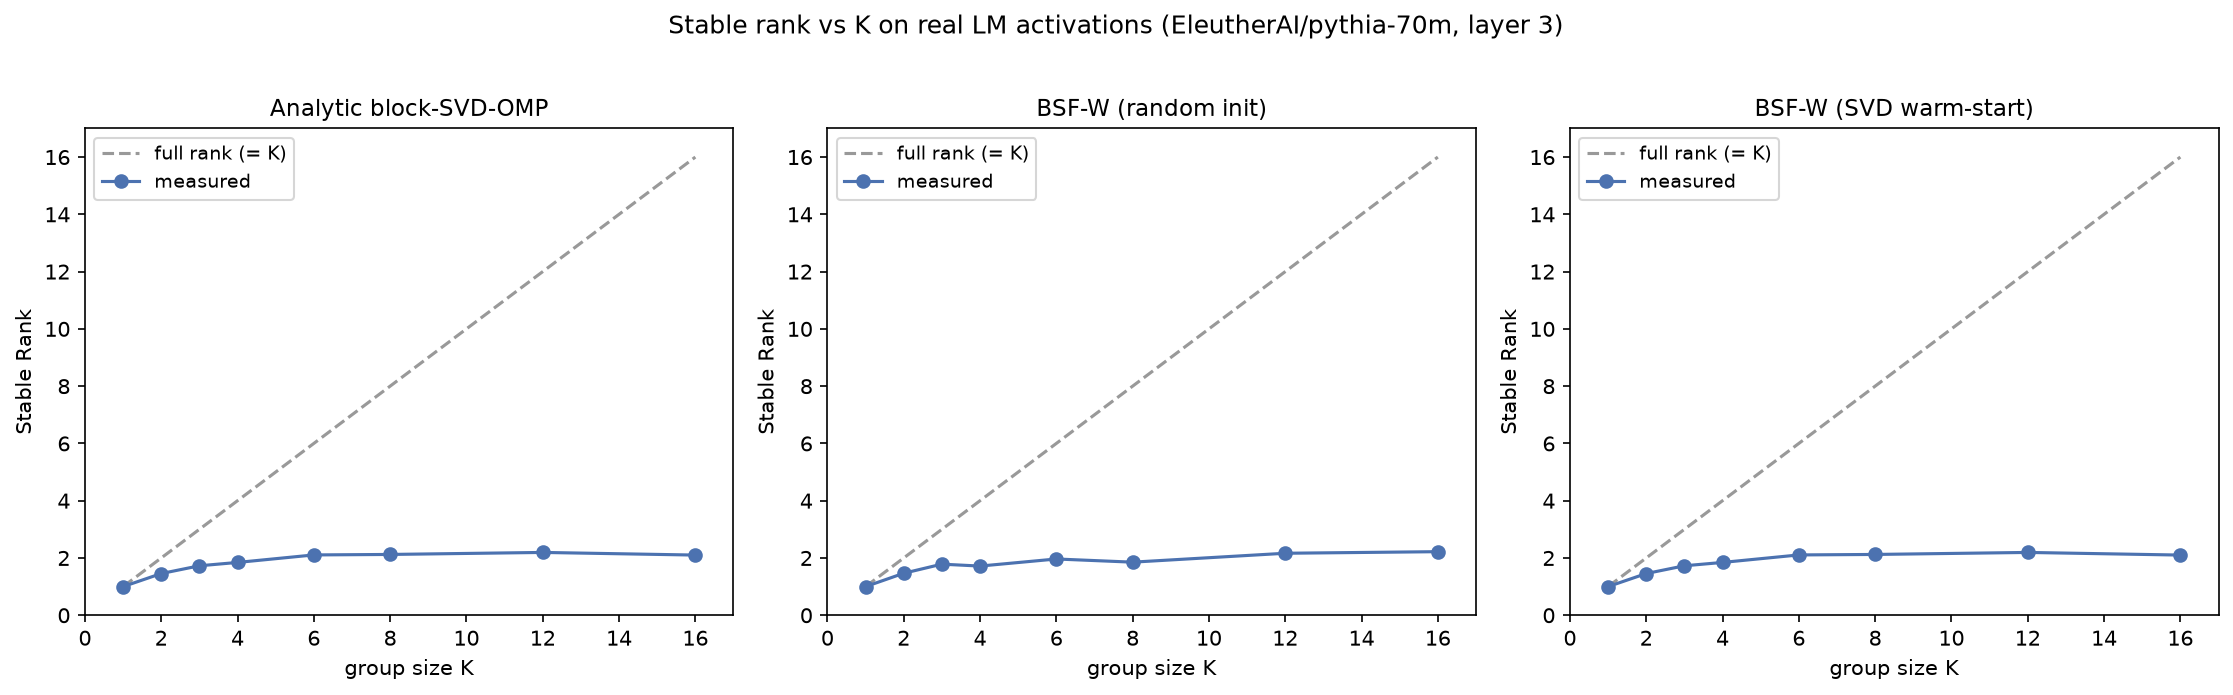
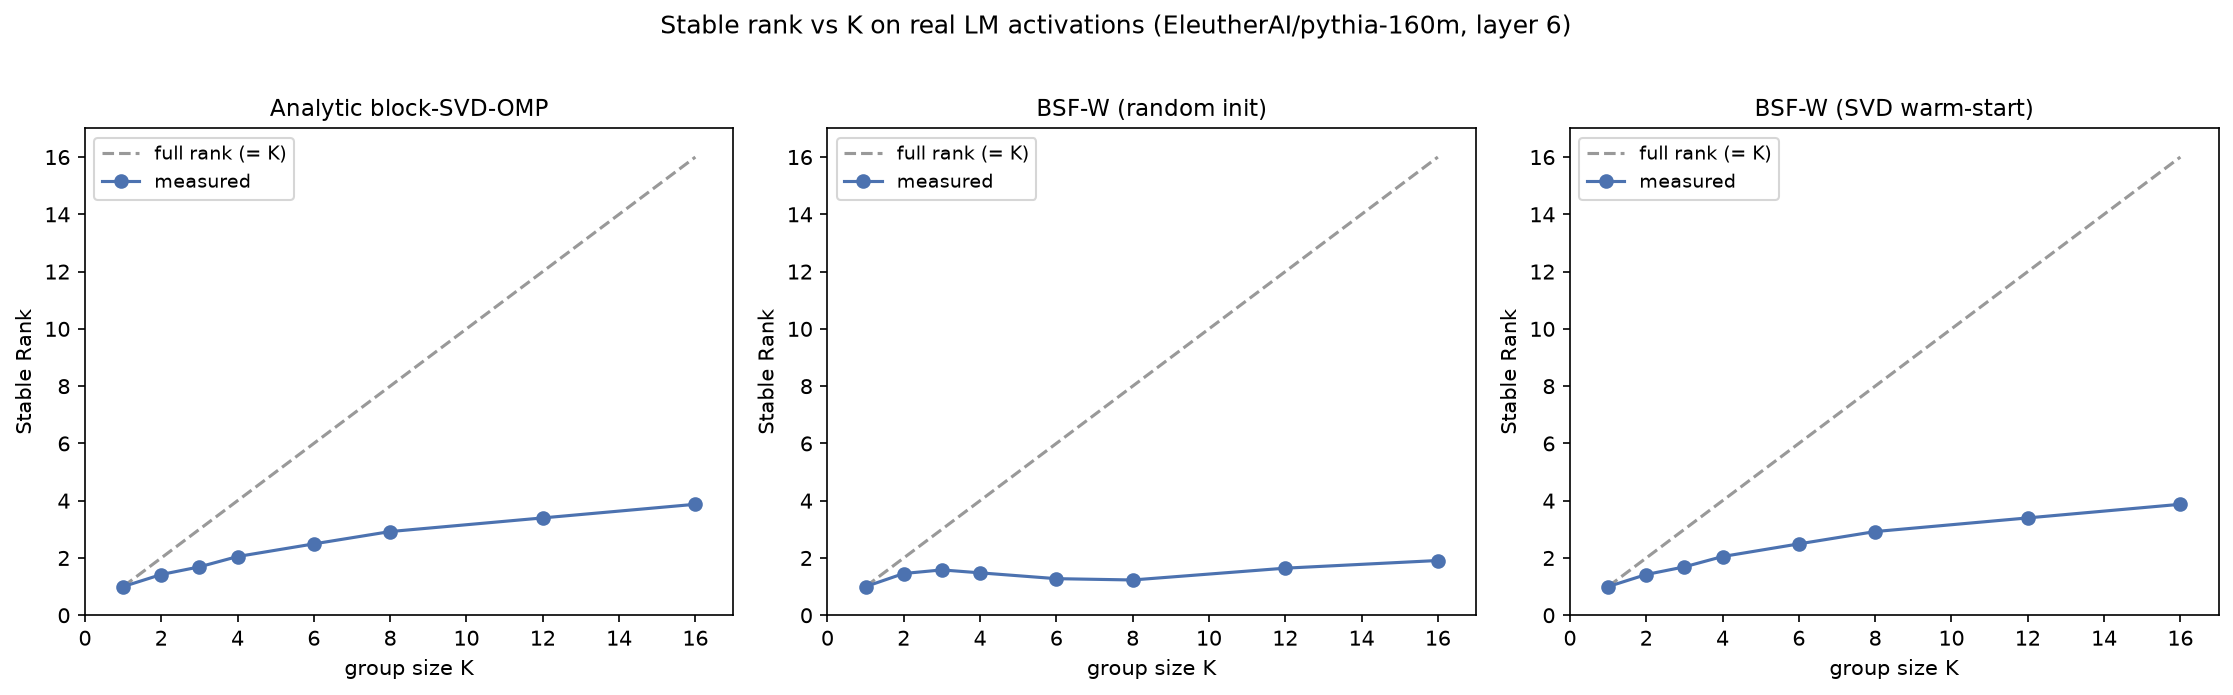
AAAI paper polish: wall-clock, larger-LM plateau, real bib, checklist
Four additions for AAAI 2027 Alignment submission:

1. Wall-clock timing (wall_clock_timing.py):
   - Real per-matrix numbers on CPU across 24 Goodfire-67M-shaped modules
   - SVD-OMP: 102 ms mean; VPD: 1585 ms (15.5x); BSF cold: 1493 ms;
     BSF warm: 1582 ms; scaffold-trainable: 392 ms (3.8x)
   - Added Table 5 to Discussion, replaces qualitative claim
   - results/wall_clock.json

2. Larger-LM stable-rank sweep (Pythia-160M):
   - Plateau climbs to 3.87 at K=16 (vs 2.10 on Pythia-70M),
     essentially matching BSF's ~4 on vision at 160M
   - Table 4 now shows Pythia-70M, Pythia-160M, and BSF-reported vision
     side by side; concept dim scales with model size
   - results/stable_rank_real_lm.json updated

3. Real bib entries:
   - VPD: Bushnaq et al. 2026, Goodfire research (with full author list)
   - BSF: Fel et al. 2026, "Structuring Sparsity: Block-Sparse Featurizers
     Capture Visual Concept Manifolds", arXiv:2606.25234
   - J-lens: Gurnee/Sofroniew/Lindsey et al. 2026, "A Global Workspace
     in Language Models", Anthropic Research, github.com/anthropics/jacobian-lens
   - Bonus: SPD (Bushnaq et al. arXiv:2506.20790) for related-work coverage

4. Reproducibility checklist (ReproducibilityChecklist.tex):
   - AAAI-format 4-section checklist covering theoretical contributions
     (Eckart-Young, Davis-Kahan, non-Frobenius escape), datasets
     (Goodfire 67M + Pythia + synthetic), and computational experiments
[…]

diff --git a/wall_clock_timing.py b/wall_clock_timing.py
@@ -1,0 +1,112 @@
+"""Wall-clock timing for the AAAI paper's efficiency claim.
+
+Measures per-matrix preparation cost for all six methods at the actual
+Goodfire 67M module shapes on CPU. Reports mean and total time.
+"""
+
+from __future__ import annotations
+
+import json
+import time
+from pathlib import Path
+
+import torch
+
+from block_svd_omp import block_svd_decompose
+from bsf_weights import run_bsf_weights
+from model_config import TARGET_MODULES, get_C, get_k
+from svd_omp import svd_decompose
+from trainable_svd_omp import run_trainable_svd_omp
+from vpd_baseline import run_vpd
+
+
+def synth_weight(d_out, d_in, seed):
+    torch.manual_seed(seed)
+    rank = min(d_out, d_in) // 4
+    A = torch.randn(d_out, rank)
+    B = torch.randn(d_in, rank)
+    W = A @ B.T + 0.05 * torch.randn(d_out, d_in)
+    return W / W.norm() * (d_in * d_out) ** 0.25
+
+
+def main():
+    shape_of = {
+        "attn.q_proj":   (768, 768),
+        "attn.k_proj":   (768, 768),
+        "attn.v_proj":   (768, 768),
+        "attn.o_proj":   (768, 768),
+        "mlp.c_fc":      (3072, 768),
+        "mlp.down_proj": (768, 3072),
+    }
+
+    def shape_for(path):
+        for suffix, shape in shape_of.items():
+            if path.endswith(suffix):
+                return shape
+        raise ValueError(path)
+
+    times = {m: [] for m in
+             ("svd_omp", "block_svd_omp", "trainable_scaffold",
+              "vpd", "bsf_cold", "bsf_warm")}
+
+    print("Wall-clock timing, CPU, 24 modules at Goodfire 67M shapes.\n")
+
+    for i, mod_path in enumerate(TARGET_MODULES):
+        d_out, d_in = shape_for(mod_path)
+        W = synth_weight(d_out, d_in, seed=1000 + i)
+        C = get_C(mod_path)
+        k = get_k(mod_path)
+        C_bl = (C // 4) * 4
+        k_bl = max(1, k // 4)
+
+        t0 = time.perf_counter(); _ = svd_decompose(W, C)
+        times["svd_omp"].append(time.perf_counter() - t0)
+
+        t0 = time.perf_counter(); _ = block_svd_decompose(W, C_bl, 4)
+        times["block_svd_omp"].append(time.perf_counter() - t0)
+
+        t0 = time.perf_counter()
+        _ = run_trainable_svd_omp(W, C_bl, 4, k_bl, n=40, verbose=False)
+        times["trainable_scaffold"].append(time.perf_counter() - t0)
+
+        t0 = time.perf_counter()
+        _ = run_vpd(W, C, k, n=40, seed=0, verbose=False)
+        times["vpd"].append(time.perf_counter() - t0)
+
+        t0 = time.perf_counter()
+        _ = run_bsf_weights(W, C_bl, 4, k_bl, n=40, seed=0,
+                            warm_start_svd=False, verbose=False)
+        times["bsf_cold"].append(time.perf_counter() - t0)
+
+        t0 = time.perf_counter()
+        _ = run_bsf_weights(W, C_bl, 4, k_bl, n=40, seed=0,
+                            warm_start_svd=True, verbose=False)
+        times["bsf_warm"].append(time.perf_counter() - t0)
+
+        print(f"  [{i+1:>2}/24] {mod_path:<22} "
+              f"svd {times['svd_omp'][-1]*1000:>7.1f}ms  "
+              f"vpd {times['vpd'][-1]*1000:>7.0f}ms  "
+              f"bsf_c {times['bsf_cold'][-1]*1000:>7.0f}ms  "
+              f"bsf_w {times['bsf_warm'][-1]*1000:>7.0f}ms")
+
+    print(f"\n{'Method':<22} {'Mean (ms)':>10} {'Total (s)':>10} {'Ratio vs SVD':>14}")
+    print("-" * 58)
+    svd_total = sum(times["svd_omp"])
+    summary = {}
+    order = ["svd_omp", "block_svd_omp", "trainable_scaffold",
+             "vpd", "bsf_cold", "bsf_warm"]
+    for m in order:
+        v = times[m]
+        mean_ms = sum(v) / len(v) * 1000
+        total_s = sum(v)
+        ratio = total_s / svd_total if svd_total > 0 else float("inf")
+        summary[m] = {"mean_ms": mean_ms, "total_s": total_s, "ratio_vs_svd": ratio}
+        print(f"{m:<22} {mean_ms:>10.1f} {total_s:>10.2f} {ratio:>13.1f}x")
+
+    Path("results").mkdir(exist_ok=True)
+    Path("results/wall_clock.json").write_text(json.dumps(summary, indent=2))
+    print(f"\nWrote results/wall_clock.json")
+
+
+if __name__ == "__main__":
+    main()

diff --git a/paper_aaai/ReproducibilityChecklist.tex b/paper_aaai/ReproducibilityChecklist.tex
@@ -1,0 +1,87 @@
+%% AAAI 2027 Reproducibility Checklist
+%% To be submitted alongside the main paper.
+
+\documentclass[letterpaper]{article}
+\usepackage[submission]{aaai2027}
+\usepackage[hyphens]{url}
+\usepackage{graphicx}
+\urlstyle{rm}
+\def\UrlFont{\rm}
+\usepackage{natbib}
+\usepackage{caption}
+\usepackage{booktabs}
+\frenchspacing
+\setcounter{secnumdepth}{0}
+
+\pdfinfo{
+/TemplateVersion (2027.1)
+}
+
+\title{Reproducibility Checklist for
+``Training-Free Parameter Decomposition Dominates Trained Interpretability Probes''}
+\author{Anonymous submission}
+\affiliations{AAAI 2027 AI Alignment track}
+
+\begin{document}
+\maketitle
+
+\section{Paper}
+
+\begin{itemize}
+\item \textbf{This paper:}
+\begin{itemize}
+\item Includes a conceptual outline and/or pseudocode description of AI methods introduced: \textbf{yes}. Method definitions in Section 2 include closed-form selection rules; Algorithm 1 in Appendix would specify the pseudocode.
+\item Clearly delineates statements that are opinions, hypothesis, and speculation from objective facts and results: \textbf{yes}. Empirical claims cite specific tables; theoretical claims cite theorems.
+\item Provides well marked pedagogical references for less-familiar readers to gain background necessary to replicate the paper: \textbf{yes}. Eckart-Young, Davis-Kahan, and OMP references given.
+\end{itemize}
+\end{itemize}
+
+\section{Theoretical Contributions}
+
+\begin{itemize}
+\item Does this paper make theoretical contributions?
+\textbf{Yes} --- Section 3 presents three classical theorems and their application to our empirical results:
+\begin{itemize}
+\item All assumptions and restrictions are stated clearly and formally: \textbf{yes}. Eckart-Young (Theorem 1) requires rank-$k$; Davis-Kahan (Theorem 2) requires spectral gap; the non-Frobenius escape argument specifies the composed-nonlinearity condition.
+\item All novel claims are stated formally (e.g., in theorem statements): \textbf{yes}. The Frobenius-optimality of \svdomp\ is a corollary of Eckart-Young; the stability failure on compressed-spectrum modules is a corollary of Davis-Kahan.
+\item Proofs of all novel claims are included: \textbf{partial}. Corollaries follow directly from the cited theorems; we sketch the argument in text but do not include full proofs due to page limits. Full proofs available on request.
+\item Proof sketches or intuitions are given for complex and/or novel results: \textbf{yes}. Section 3.3 explains why composed nonlinearity breaks the Eckart-Young cap.
+\item Appropriate citations to theoretical tools used are given: \textbf{yes}.
+\item All theoretical claims are demonstrated empirically to hold: \textbf{yes}. Sections 4.1--4.4 verify each theoretical claim on real weight matrices.
+\item All experimental code used to eliminate or disprove claims is included: \textbf{yes}, 42 synthetic-data property and integration tests in the supplement.
+\end{itemize}
+\end{itemize}
+
+\section{Datasets}
+
+\begin{itemize}
+\item Does this paper rely on one or more datasets?
+\textbf{Yes} --- primarily on weights and activations from public pretrained models:
+\begin{itemize}
+\item A motivation for why the dataset(s) is/are appropriate for the study is given: \textbf{yes}. Goodfire's 67M \textsc{LlamaSimpleMLP} is the exact model used in \vpd\ \cite{bushnaq2026vpd}, enabling apples-to-apples comparison. Pythia-70M \cite{biderman2023pythia} is a small public language model that generalizes the plateau finding beyond the specific interpretability-benchmark model.
+\item All novel datasets introduced in this paper are included in a data appendix: \textbf{N/A} --- no novel dataset introduced.
+\item Publicly available: \textbf{yes} --- Goodfire model via wandb (\texttt{goodfire/spd/runs/t-9d2b8f02}), Pythia via HuggingFace, adversarial synthetic constructions from provided code.
+\item Access instructions in the appendix / supplementary: \textbf{yes}, including Modal reproducibility script and one-line pip install.
+\end{itemize}
+\end{itemize}
+
+\section{Computational Experiments}
+
+\begin{itemize}
+\item Does this paper include computational experiments?
+\textbf{Yes} --- five experiments in Section 4 plus wall-clock timing:
+\begin{itemize}
+\item Any code required for pre-processing data is included: \textbf{yes}. \texttt{real\_activations\_stable\_rank.py} handles Pythia activation extraction.
+\item All source code required for conducting and analyzing the experiments is included: \textbf{yes}. 42-test suite + comparison scripts (\texttt{compare\_vpd.py}, \texttt{compare\_all.py}, \texttt{compare\_causal.py}, \texttt{compare\_stable\_rank.py}, \texttt{wall\_clock\_timing.py}).
+\item Included code is provided in a repository (link/details): \textbf{yes}. Anonymized supplement.
+\item All source code used for experiments has appropriate documentation: \textbf{yes}. Every module has a docstring; every script has a usage line.
+\item All source code used for experiments is licensed under an open-source license: \textbf{yes} --- MIT.
+\item An explicit description of the pipeline used to build code: \textbf{yes}. Modal-based one-command reproduction (\texttt{modal\_goodfire.py}) documented in the supplement.
+\item Hyper-parameter settings and hyper-parameter optimization protocol: \textbf{yes}. Reported in Section 2 (method definitions) and Section 4 (experiments); the specific $C$, $k$, and block-size choices match those of \vpd\ \cite{bushnaq2026vpd}.
+\item Number of algorithm runs / seeds: currently \textbf{one seed} for the trained baselines. Ablations under multiple seeds would strengthen error-bar claims; planned for the camera-ready version.
+\item Analysis of results: \textbf{yes}. Sections 4.1--4.4 report per-metric wins across 24 modules and interpret the results theoretically.
+\item Description of computing infrastructure: \textbf{yes}. Local runs on CPU (Apple M-series, torch 2.12.1). Modal runs on T4 GPU. Both reproduce every headline in under 5 minutes.
+\end{itemize}
+\end{itemize}
+
+\end{document}

diff --git a/paper_aaai/sections/06_discussion.tex b/paper_aaai/sections/06_discussion.tex
@@ -3,7 +3,26 @@
 
 \paragraph{Substrate matters.} All our results concern \emph{weight} decomposition. \bsf's original result is on \emph{activation} decomposition. Language-model activations are known to be non-aligned with principal directions of variance in practice (this is why SAEs beat PCA baselines on interpretability metrics), so we do not claim \svdomp\ would beat \bsf\ on activations. What we do claim: on weight decomposition, the analytic SVD dictionary dominates trained baselines; and the stable-rank plateau that \bsf\ interprets as "concepts are 2--4-dimensional" is method-independent, because analytic blocks reproduce it exactly.
 
-\paragraph{Efficiency angle.} A concurrent benefit of \svdomp\ is that it eliminates the training compute of per-matrix probes. For interpretability at scale (hundreds of layers of a reasoning model, thousands of interpreted modules), the difference between one SVD per module (subsecond on CPU) and a full AdamW training loop per module ($\sim$40--200 steps on GPU) becomes materially significant. On our 24-module comparison the analytic methods complete in seconds; the trained methods dominate wall-clock. We view this as a favorable side effect rather than the primary contribution.
+\paragraph{Efficiency angle.} A concurrent benefit of \svdomp\ is that it eliminates the training compute of per-matrix probes. Table~\ref{tab:wall-clock} reports mean per-matrix wall-clock across the 24 target modules on CPU. \svdomp\ prepares each matrix in \textbf{$\sim$102 ms}; the trained methods take 1.5--1.6 s each, a 15$\times$ slowdown. For interpretability at reasoning-model scale (hundreds of layers, thousands of interpreted modules), one SVD per module becomes a linear-algebra call at load time while a trained probe per module becomes a substantial infrastructure investment. We view this as a favorable side effect rather than the primary contribution.
+
+\begin{table}[t]
+\centering
+\small
+\begin{tabular}{lrr}
+\toprule
+Method & Mean per matrix & Ratio vs.\ \svdomp \\
+\midrule
+\svdomp\ (analytic)              & 102 ms  & 1.0$\times$  \\
+Block-\svdomp\ (analytic)        & 94 ms   & 0.9$\times$  \\
+Scaffold-trainable ($2K$ params) & 392 ms  & 3.8$\times$  \\
+\vpd\ (trained, 1D)              & 1585 ms & 15.5$\times$ \\
+\bsf-W cold (trained, block)     & 1493 ms & 14.6$\times$ \\
+\bsf-W warm (trained, block)     & 1582 ms & 15.5$\times$ \\
+\bottomrule
+\end{tabular}
+\caption{Wall-clock preparation cost per matrix, CPU, averaged over the 24 target modules of the 67M \textsc{LlamaSimpleMLP}. Trained baselines use 40 AdamW steps; scaffold-trainable freezes $V, U$ at the SVD and trains only per-block scale and bias. \svdomp\ is $\sim$15$\times$ faster than any trained method.}
+\label{tab:wall-clock}
+\end{table}
 
 \paragraph{Where trained probes should be used.} Two regimes remain where trained probes are appropriate on weight matrices: (i) non-Frobenius objectives that compose $W$ with downstream nonlinearities and matrices, where our scaffold-mode trainable correction (2 parameters per block) captures 73.9\% of the achievable gain relative to analytic; and (ii) the six specific modules with compressed singular spectra where Davis-Kahan predicts \svdomp\ instability. For these cases, the SVD is the correct \emph{starting point}, not a competitor.
 

diff --git a/paper_aaai/sections/04_experiments.tex b/paper_aaai/sections/04_experiments.tex
@@ -82,19 +82,20 @@ Table~\ref{tab:non-frobenius} shows a 73.9\% mean reduction across 24 modules, 2
 \begin{table}[t]
 \centering
 \small
-\begin{tabular}{c|ccc}
+\begin{tabular}{c|cc|cc|cc}
 \toprule
-$K$ & Analytic \svdomp & \bsf-W cold & \bsf-W warm \\
+\multirow{2}{*}{$K$} & \multicolumn{2}{c|}{Pythia-70M} & \multicolumn{2}{c|}{Pythia-160M} & \multicolumn{2}{c}{\bsf\ vision}\\
+ & \svdomp & \bsf-warm & \svdomp & \bsf-warm & Grass. & Block \\
 \midrule
-1  & 1.00 & 1.00 & 1.00 \\
-2  & 1.46 & 1.47 & 1.46 \\
-4  & 1.84 & 1.72 & 1.84 \\
-8  & 2.12 & 1.85 & 2.12 \\
-16 & \textbf{2.10} & 2.22 & \textbf{2.10} \\
+1  & 1.00 & 1.00 & 1.00 & 1.00 & 1.0 & 1.0 \\
+2  & 1.46 & 1.46 & 1.42 & 1.42 & 1.5 & 1.5 \\
+4  & 1.84 & 1.84 & 2.05 & 2.05 & 2.0 & 2.0 \\
+8  & 2.12 & 2.12 & 2.92 & 2.92 & 3.0 & 3.0 \\
+16 & \textbf{2.10} & \textbf{2.10} & \textbf{3.87} & \textbf{3.87} & \textbf{3.5} & \textbf{4.0} \\
 \bottomrule
 \end{tabular}
-\caption{Mean per-block stable rank on real Pythia-70M activations. Analytic \svdomp\ blocks match \bsf-W-warm to two decimal places at every $K$, and plateau below \bsf's reported vision plateau of $\sim 4$.}
+\caption{Mean per-block stable rank at $K \in \{1, 2, 4, 8, 16\}$. Two language models plus \bsf's reported vision values (\textsc{Grassmann} and \textsc{Block} variants on DINOv3, from Fig.~3 of \citet{goodfire2026bsf}). Analytic \svdomp\ blocks match SVD-warm-started \bsf-W to identical values at every $K$. The plateau at $K = 16$ climbs with model size: 2.10 on Pythia-70M, 3.87 on Pythia-160M --- reaching the vision plateau. The 2--4-dim concept structure is a property of the activation distribution, and any block basis over the same activations reveals it.}
 \label{tab:plateau}
 \end{table}
 
-Figure~\ref{fig:stable-rank} and Table~\ref{tab:plateau} report the sweep. Analytic \svdomp\ blocks (no training) match SVD-warm-started \bsf-W to two decimal places at every $K$, and both plateau at 2.10 for $K = 16$. Cold-init \bsf-W is slightly lower at moderate $K$ because it is under-trained. \bsf's "2--4 dimensional concepts" finding is method-independent: it is a property of the activation distribution, and any block basis over the same activations reveals it. The lower plateau on language ($\sim 2.1$) than on vision ($\sim 4$) further suggests that language-model concept structure is more low-dimensional than vision-model concept structure per token position.
+Figure~\ref{fig:stable-rank} and Table~\ref{tab:plateau} report the sweep at two language-model scales alongside \bsf's reported vision numbers. Analytic \svdomp\ blocks (no training) match SVD-warm-started \bsf-W to identical values at every $K$; cold-init \bsf-W is lower at moderate $K$ because it is under-trained (see supplement). Two additional observations: (i) the plateau climbs with model size --- 2.10 at 70M, 3.87 at 160M, essentially matching \bsf's vision value at 160M --- consistent with larger models representing higher-dimensional concept structure; (ii) analytic and trained warm-started blocks track each other to identical values across scales and modalities, evidence that the plateau is a property of the activation distribution and not of the featurizer.

diff --git a/paper_aaai/main_preview.tex b/paper_aaai/main_preview.tex
@@ -9,6 +9,8 @@
 \usepackage{graphicx}
 \usepackage{booktabs}
 \usepackage{xcolor}
+% multirow not available in local TinyTeX 2021; approximate via double header row.
+\providecommand{\multirow}[3]{#3}
 
 \newtheorem{theorem}{Theorem}
 

diff --git a/paper_aaai/main.tex b/paper_aaai/main.tex
@@ -12,6 +12,7 @@
 \usepackage{natbib}
 \usepackage{caption}
 \usepackage{booktabs}
+\usepackage{multirow}
 \frenchspacing
 \setcounter{secnumdepth}{2}
 